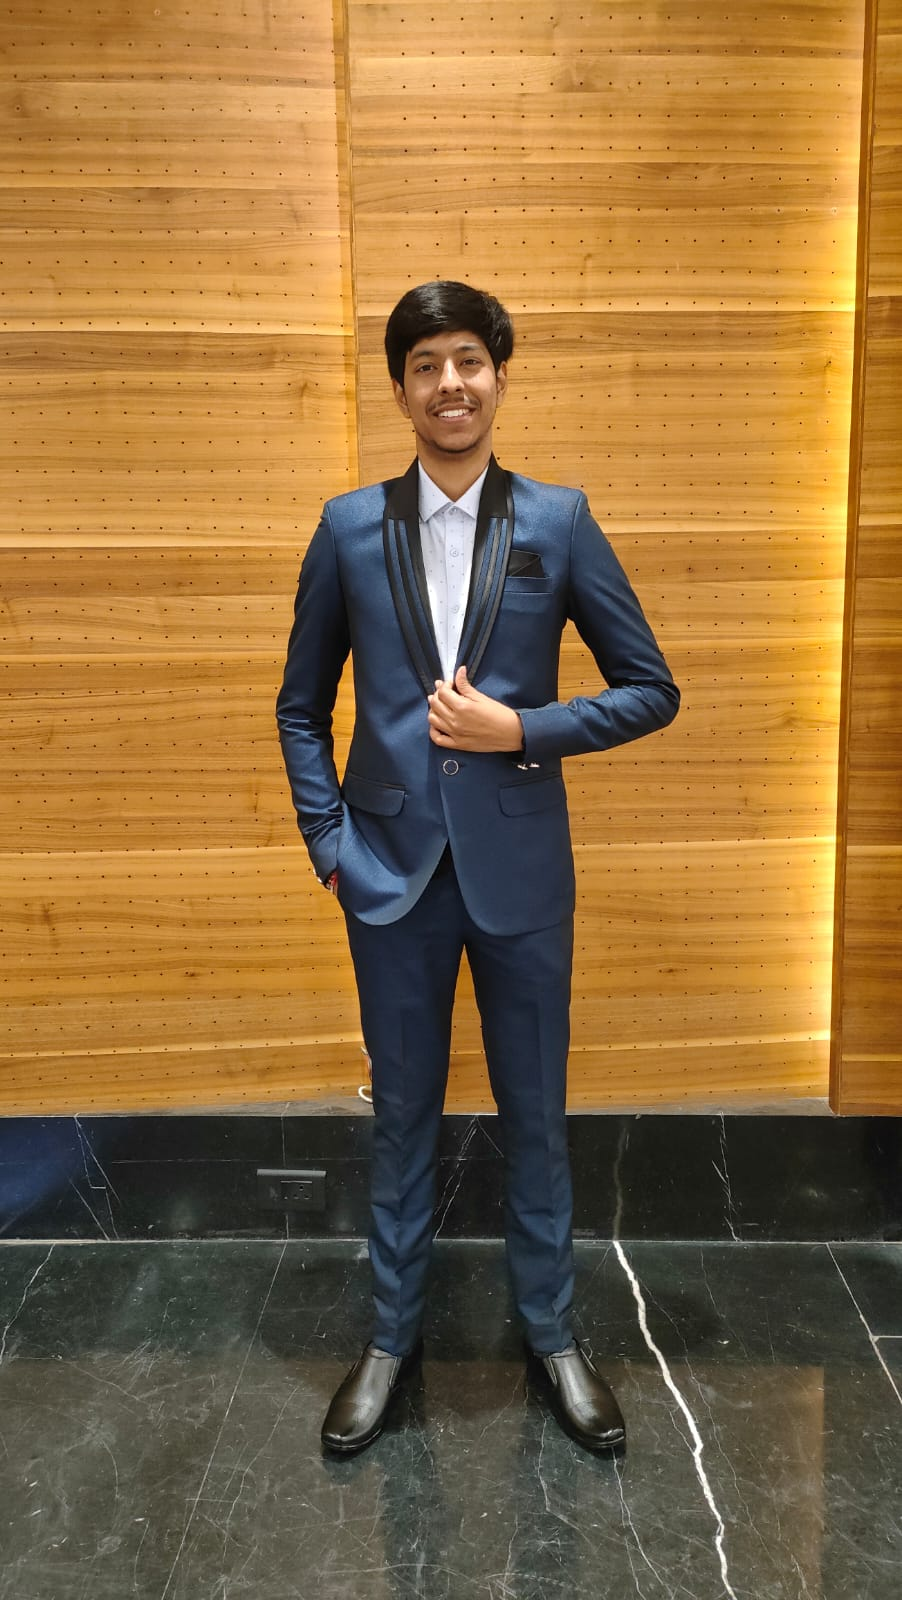
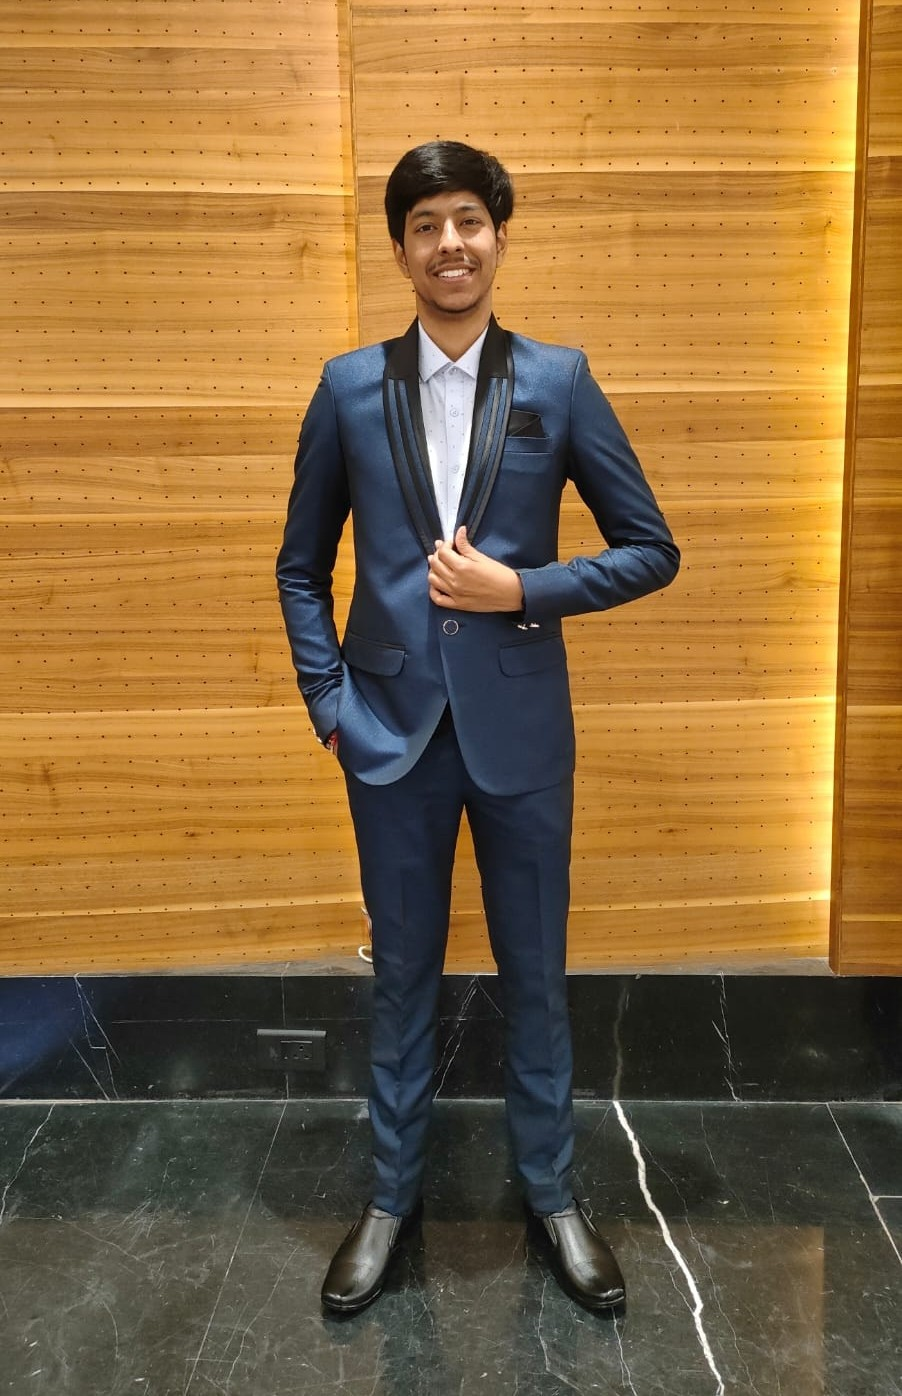
Release 1

diff --git a/index.html b/index.html
@@ -136,18 +136,14 @@
       /* Photo 1: portrait — keep head visible */
       .photo-block.portrait img {
         width: 100%;
-        height: clamp(340px, 65vw, 520px);
-        object-fit: cover;
-        object-position: top center;
+        height: auto;
         display: block;
         transition: transform 0.5s ease;
       }
       /* Photo 2: landscape / standard */
       .photo-block.landscape img {
         width: 100%;
-        height: clamp(260px, 48vw, 400px);
-        object-fit: cover;
-        object-position: center center;
+        height: auto;
         display: block;
         transition: transform 0.5s ease;
       }
@@ -267,10 +263,9 @@
       .about-text {
         font-family: "Cormorant Garamond", serif;
         font-size: 1.08rem;
-        font-weight: 300;
+        font-weight: 500;
         line-height: 1.9;
         color: var(--text-mid);
-        font-style: italic;
       }
 
       /* ── hobbies pill list ── */
@@ -475,7 +470,7 @@
           </div>
           <div>
             <div class="info-label">Company</div>
-            <div class="info-value">OpsHub Ltd.</div>
+            <div class="info-value">OpsHub Ltd. (Ahmedabad)</div>
           </div>
         </div>
       </div>
@@ -549,10 +544,10 @@
               <strong>Grandmother:</strong> Late Smt. Ushaben Manharlal Gosaliya
             </div>
             <div class="lineage-row" style="margin-top: 0.5rem">
-              <strong>Uncle:</strong> Ketanbhai Gosaliya
+              <strong>Uncle:</strong> Ketanbhai Gosaliya (9374143499)
             </div>
             <div class="lineage-row">
-              <strong>Uncle:</strong> Chirag Gosaliya
+              <strong>Uncle:</strong> Chirag Gosaliya (9428290623)
             </div>
           </div>
         </div>
@@ -576,11 +571,11 @@
           <div class="section-title">Hobbies &amp; Interests</div>
         </div>
         <div class="pill-list">
-          <span class="pill">Traveling</span>
+          <span class="pill">Sports</span>
+          <span class="pill">Gamming</span>
+          <span class="pill">Travelling</span>
           <span class="pill">Reading</span>
-          <span class="pill">Fitness</span>
-          <span class="pill">Cooking</span>
-          <span class="pill">Music</span>
+          <span class="pill">Movies</span>
         </div>
       </div>
 
@@ -600,9 +595,7 @@
         <p class="about-text">
           I am a warm, grounded person who values family deeply and believes in
           building a life rooted in mutual respect and kindness. I enjoy the
-          balance of a fulfilling career and a nurturing home. Outside of work,
-          you'll find me lost in a good book, exploring new places, or simply
-          spending time with loved ones. I am looking for a partner who is
+          balance of a fulfilling career and a nurturing home. I am looking for a partner who is
           emotionally mature, family-oriented, and shares a zest for life's
           little joys.
         </p>
@@ -627,7 +620,15 @@
                 d="M22 16.92v3a2 2 0 01-2.18 2 19.79 19.79 0 01-8.63-3.07A19.5 19.5 0 013.09 12a19.79 19.79 0 01-3.07-8.67A2 2 0 012 1.18h3a2 2 0 012 1.72 12.84 12.84 0 00.7 2.81 2 2 0 01-.45 2.11L6.09 9a16 16 0 006 6l1.27-1.27a2 2 0 012.11-.45 12.84 12.84 0 002.81.7A2 2 0 0122 16.92z"
               />
             </svg>
-            <div class="contact-text">+91 1234567890</div>
+            <div class="contact-text">Father - 9825007626</div>
+          </div>
+          <div class="contact-item">
+            <svg viewBox="0 0 24 24">
+              <path
+                d="M22 16.92v3a2 2 0 01-2.18 2 19.79 19.79 0 01-8.63-3.07A19.5 19.5 0 013.09 12a19.79 19.79 0 01-3.07-8.67A2 2 0 012 1.18h3a2 2 0 012 1.72 12.84 12.84 0 00.7 2.81 2 2 0 01-.45 2.11L6.09 9a16 16 0 006 6l1.27-1.27a2 2 0 012.11-.45 12.84 12.84 0 002.81.7A2 2 0 0122 16.92z"
+              />
+            </svg>
+            <div class="contact-text">Mother - 9376775259</div>
           </div>
           <div class="contact-item">
             <svg viewBox="0 0 24 24">
